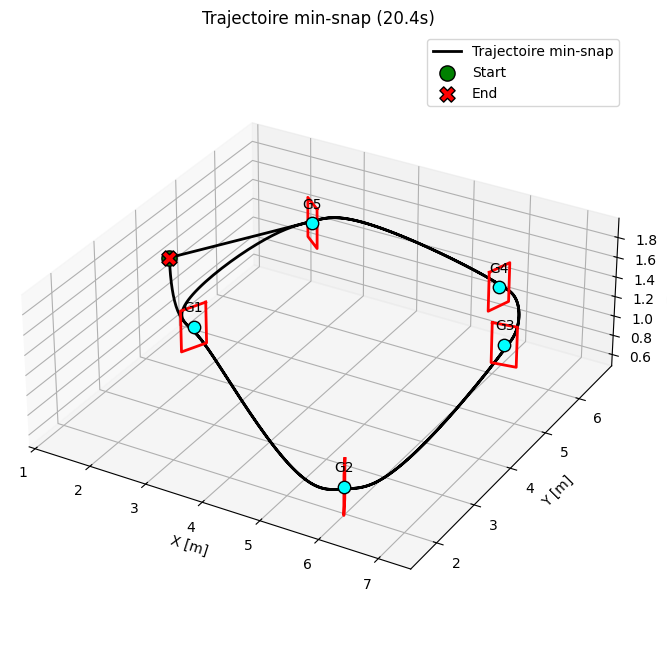
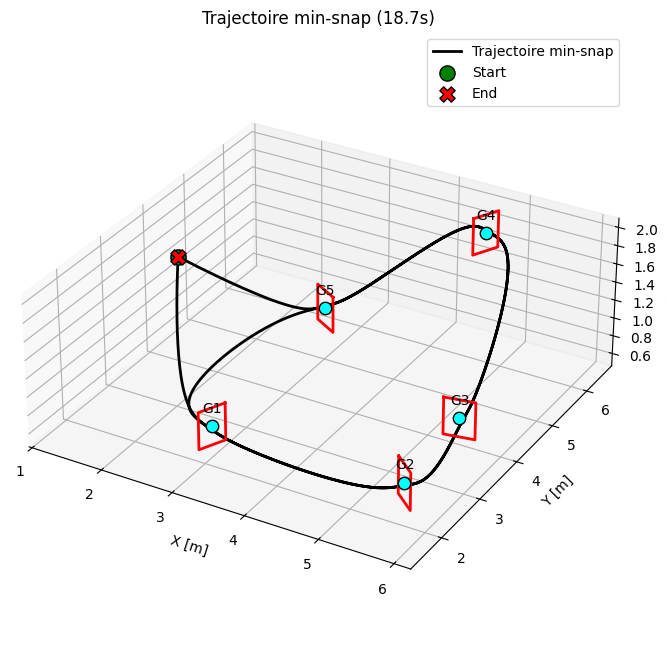
added lateral offset robust

diff --git a/controllers/main/assignment/my_assignment.py b/controllers/main/assignment/my_assignment.py
@@ -30,14 +30,12 @@ GATE_OBJ_POINTS = np.array([[-_hw, -_hh, 0.0],   # TL
                             dtype=np.float32)
 
 # =============================================================================
-# PARAMÈTRES FILTRE HSV
+# PARAMÈTRES FILTRE HSV  (une seule plage, à ajuster selon l'éclairage)
 # =============================================================================
-HSV_LOWER_MAG1 = np.array([140,  80,  80])
-HSV_UPPER_MAG1 = np.array([180, 255, 255])
-HSV_LOWER_MAG2 = np.array([  0,  80,  80])
-HSV_UPPER_MAG2 = np.array([ 15, 255, 255])
+HSV_LOWER_MAG1 = np.array([138,  20,  110])
+HSV_UPPER_MAG1 = np.array([158, 210, 255])
 
-MIN_CONTOUR_AREA = 200
+MIN_CONTOUR_AREA = 400
 
 NUM_GATES = 5
 OVERFLY_ALT = 2.0          # altitude pour passer au-dessus du gate
@@ -82,9 +80,7 @@ def detect_gates(image):
 
     hsv = cv2.cvtColor(img, cv2.COLOR_BGR2HSV)
 
-    mask1 = cv2.inRange(hsv, HSV_LOWER_MAG1, HSV_UPPER_MAG1)
-    mask2 = cv2.inRange(hsv, HSV_LOWER_MAG2, HSV_UPPER_MAG2)
-    mask  = cv2.bitwise_or(mask1, mask2)
+    mask = cv2.inRange(hsv, HSV_LOWER_MAG1, HSV_UPPER_MAG1)
 
     kernel_open  = np.ones((5,  5),  np.uint8)
     kernel_close = np.ones((15, 15), np.uint8)
@@ -115,14 +111,14 @@ def detect_gates(image):
         angle_h = (cx - CAM_WIDTH / 2.0) * angle_per_pixel
         angle_v = (CAM_HEIGHT / 2.0 - cy) * (CAM_FOV_V / CAM_HEIGHT)
 
-        MIN_BBOX_SIZE = 15
+        MIN_BBOX_SIZE = 10
         if w < MIN_BBOX_SIZE or h < MIN_BBOX_SIZE:
             continue
 
         # Rejeter les contours très allongés (probablement du bruit ou des barres isolées
         # d'un gate, pas le gate entier). Un gate vu même de biais garde un ratio raisonnable.
         aspect_ratio = w / max(h, 1)
-        if aspect_ratio > 4.0 or aspect_ratio < 0.25:
+        if aspect_ratio > 3.0 or aspect_ratio < 0.33:
             continue
 
         # Filtre noir à droite : s'assure que le gate détecté est isolé à sa droite
@@ -230,6 +226,13 @@ class MyAssignment:
         # on accepte le plus gros contour comme fallback
         self.scan_frames = 0
 
+        # Stop-and-detect en scan_ccw :
+        # Le drone alterne entre rotation (SCAN_ROT_FRAMES frames) et pause
+        # (SCAN_PAUSE_FRAMES frames) pour laisser l'image se stabiliser avant
+        # de tenter la détection. Détection uniquement pendant la pause.
+        self.scan_phase        = 'rotate'   # 'rotate' ou 'pause'
+        self.scan_phase_frames = 0          # frames écoulées dans la phase courante
+
         # Position estimée du gate courant (lissée)
         self.gate_rough_pos  = None
         self.lost_count      = 0
@@ -261,6 +264,8 @@ class MyAssignment:
         self.best_angle_h = None
         self.refine_shrink_count = 0
         self.scan_frames = 0
+        self.scan_phase = 'rotate'
+        self.scan_phase_frames = 0
 
     def _reorder_gates_ccw(self, gate_positions):
         """
@@ -373,7 +378,7 @@ class MyAssignment:
         return pos, vel
 
     def _compute_trajectory(self, start_pos, waypoints, end_pos,
-                            avg_speed= 2, gate_speed_factor=0.5):
+                            avg_speed=3, gate_speed_factor=0.7):
         """
         Calcule une trajectoire min-snap par morceaux entre start_pos, tous les
         waypoints (passages de gates), et end_pos.
@@ -385,15 +390,14 @@ class MyAssignment:
             (gate_speed_factor < 1) pour forcer le drone à passer précisément par
             le centroïde. Moins de vitesse = moins d'inertie = moins d'écart
             lors du passage.
-          - Durée de chaque segment ∝ longueur / avg_speed
+          - Durée de chaque segment : d / avg_speed (cruise plein).
+            Plafond 5s pour éviter l'instabilité numérique du polynôme d'ordre 7
+            (T^7 explose si T est grand, rendant les coefficients aberrants).
 
         Paramètres :
-          start_pos          : np.array(3), position de départ
-          waypoints          : liste de dicts {'pos': np.array(3), 'normal': np.array(2)}
-          end_pos            : np.array(3), position finale
-          avg_speed          : vitesse moyenne ciblée entre waypoints (m/s)
+          avg_speed          : vitesse CRUISE entre gates (m/s) → monter pour + rapide
           gate_speed_factor  : facteur ]0,1] appliqué à la vitesse AU centroïde
-                               des gates. 0.6 = traversée 40% plus lente pour
+                               des gates. 0.7 = traversée 30% plus lente pour
                                garantir le passage au centre.
 
         Retourne :
@@ -409,18 +413,15 @@ class MyAssignment:
 
         gate_speed = avg_speed * gate_speed_factor
 
-        # --- Durées des segments : ∝ distance / vitesse effective du segment ---
-        # On utilise la vitesse "à l'entrée" + "à la sortie" moyennée pour ne pas
-        # faire de saccades. Segments qui touchent un gate → vitesse réduite.
+        # --- Durées des segments : d / avg_speed (cruise plein) ---
+        # Ce calcul utilise avg_speed DIRECTEMENT → monter avg_speed = aller plus vite.
+        # Plancher 0.3s : évite les segments trop courts numériquement instables.
+        # Plafond  5.0s : évite T^7 énorme qui rend les coefficients aberrants
+        #                 (trajectoire qui "explose" entre deux waypoints).
         durations = []
         for i in range(N):
             d = np.linalg.norm(all_points[i+1]['pos'] - all_points[i]['pos'])
-            # Vitesse effective du segment : moyenne des vitesses aux deux bouts
-            # (aux extrémités start/end la vitesse est 0, ailleurs c'est avg_speed)
-            v_in  = 0.0        if i == 0       else gate_speed
-            v_out = 0.0        if i == N-1     else gate_speed
-            v_seg = max((v_in + v_out) / 2.0, 0.3)   # éviter div/0
-            durations.append(max(d / v_seg, 0.6))    # minimum 0.6s pour stabilité
+            durations.append(float(np.clip(d / avg_speed, 0.3, 5.0)))
 
         # --- Vitesse cible à chaque point ---
         # start et end : vitesse nulle
@@ -489,18 +490,28 @@ class MyAssignment:
         pos, _ = self._eval_poly(last_poly, last_dur)
         return pos, np.zeros(3)
 
-    def _build_lap2_waypoints_shrunk(self, ordered_gates, start_pos, shrink_factor=0.3):
+    # =========================================================================
+    # MODIFICATION : waypoint décalé à droite du gate pour compenser l'inertie
+    # =========================================================================
+    def _build_lap2_waypoints_shrunk(self, ordered_gates, start_pos,
+                                     lateral_offset=0.07):
         """
         Construit la liste des waypoints pour 2 tours à partir des gates ordonnés
         (liste de np.array([x, y, z])).
 
         Pour chaque gate on calcule sa normale = tangente locale du chemin
-        (direction moyenne gate_précédent → gate → gate_suivant). Cette normale
-        sert à imposer la direction de traversée dans la trajectoire.
+        (direction moyenne gate_précédent → gate → gate_suivant).
 
-        Pour atterrir pile au centre du gate, on utilise le centroïde exact
-        (shrink_factor = 0 signifie pas de décalage). Le paramètre est gardé
-        pour pouvoir éloigner du bord si besoin.
+        Le waypoint visé est décalé latéralement par rapport au centroïde.
+        Quand le drone va vite en CCW, l'inertie le pousse vers l'extérieur
+        du virage (gauche dans le sens de traversée). En décalant le waypoint
+        vers la DROITE, on compense ce drift pour que le drone passe dans le gate.
+
+          "Droite" dans le sens de traversée :
+          si normale = (nx, ny)  →  droite = (ny, -nx)   [rotation de -90°]
+
+        lateral_offset > 0 → décalage vers la droite (compense dérive CCW)
+        lateral_offset = 0 → centroïde exact (pas de compensation)
 
         Retourne : liste de dicts {'pos': np.array(3), 'normal': np.array(2)}
                    répétée 2 fois pour 2 laps.
@@ -514,8 +525,17 @@ class MyAssignment:
             next_pos = ordered_gates[(i + 1) % n]
             normal   = self._estimate_gate_normal(g, prev_pos, next_pos)
 
+            # Vecteur perpendiculaire à droite de la normale (rotation de -90°) :
+            #   normale (nx, ny)  →  droite (ny, -nx)
+            right_2d = np.array([normal[1], -normal[0]])
+
+            # Position visée = centroïde + offset latéral vers la droite
+            g_target = np.array(g, dtype=np.float64).copy()
+            g_target[0] += lateral_offset * right_2d[0]
+            g_target[1] += lateral_offset * right_2d[1]
+
             base_waypoints.append({
-                'pos':    np.array(g, dtype=np.float64).copy(),
+                'pos':    g_target,
                 'normal': normal,
             })
         # Répéter pour 2 laps
@@ -648,42 +668,69 @@ class MyAssignment:
             return [pos[0], pos[1], CRUISE_ALT, self.yaw_90_target]
 
         # =====================================================================
-        # SCAN_CCW : tourner CCW jusqu'à 4 coins + noir droite
-        #   Fallback : si on tourne depuis très longtemps sans trouver 4 coins,
-        #   accepter le plus gros contour (partiellement visible) pour ne pas rester bloqué
+        # SCAN_CCW : rotation CCW par petites impulsions, avec pauses de détection
+        #
+        # Principe stop-and-detect :
+        #   - Phase 'rotate' (SCAN_ROT_FRAMES frames)   : tourner CCW, pas de détection
+        #   - Phase 'pause'  (SCAN_PAUSE_FRAMES frames) : immobile, détecter le violet
+        #
+        # La détection n'a lieu QUE pendant la pause, quand l'image est stable.
+        # Fallback : après SCAN_TIMEOUT frames totales sans succès, accepter le
+        # plus gros contour visible même sans 4 coins.
         # =====================================================================
         if self.state == 'scan_ccw':
-            detections, self.debug_mask, _ = detect_gates(camera_data)
-            self.scan_frames += 1
+            SCAN_ROT_FRAMES   = 12   # frames de rotation (~0.24s à 50Hz) → ~20° par impulsion
+            SCAN_PAUSE_FRAMES = 12   # frames d'arrêt pour laisser l'image se stabiliser
+            SCAN_TIMEOUT      = 400  # frames totales avant fallback (~8s à 50Hz)
 
-            # Cas idéal : 4 coins visibles
-            for det in detections:
-                if det['has_4_corners']:
+            self.scan_frames       += 1
+            self.scan_phase_frames += 1
+
+            # --- Transition entre phases ---
+            if self.scan_phase == 'rotate' and self.scan_phase_frames >= SCAN_ROT_FRAMES:
+                self.scan_phase        = 'pause'
+                self.scan_phase_frames = 0
+            elif self.scan_phase == 'pause' and self.scan_phase_frames >= SCAN_PAUSE_FRAMES:
+                self.scan_phase        = 'rotate'
+                self.scan_phase_frames = 0
+
+            # --- Détection uniquement pendant la pause (image stable) ---
+            if self.scan_phase == 'pause':
+                detections, self.debug_mask, _ = detect_gates(camera_data)
+
+                for det in detections:
+                    if det['has_4_corners']:
+                        self.best_area    = det['area']
+                        self.best_angle_h = det['angle_h']
+                        self.refine_shrink_count = 0
+                        self.state = 'refine'
+                        self.scan_frames = 0
+                        self.scan_phase = 'rotate'
+                        self.scan_phase_frames = 0
+                        print(f"[STATE] Gate détecté (pause) aire={det['area']:.0f} → refine")
+                        break
+
+                # Fallback timeout : accepter le plus gros contour même sans 4 coins
+                if self.state == 'scan_ccw' and self.scan_frames > SCAN_TIMEOUT and detections:
+                    det = detections[0]
                     self.best_area    = det['area']
                     self.best_angle_h = det['angle_h']
                     self.refine_shrink_count = 0
                     self.state = 'refine'
                     self.scan_frames = 0
-                    print(f"[STATE] 4 coins + noir droite (aire={det['area']:.0f}) → refine")
-                    break
+                    self.scan_phase = 'rotate'
+                    self.scan_phase_frames = 0
+                    print(f"[STATE] Timeout scan → refine fallback "
+                          f"aire={det['area']:.0f} ({det['corner_count']} coins)")
 
-            # Fallback : si on a cherché trop longtemps sans voir 4 coins, accepter
-            # le plus gros contour même s'il n'a pas exactement 4 coins (gate coupé,
-            # vu de biais, etc.)
-            SCAN_TIMEOUT = 400  # environ ~20 secondes à 50Hz
-            if self.state == 'scan_ccw' and self.scan_frames > SCAN_TIMEOUT and detections:
-                det = detections[0]  # le plus gros (détections triées par aire)
-                self.best_area    = det['area']
-                self.best_angle_h = det['angle_h']
-                self.refine_shrink_count = 0
-                self.state = 'refine'
-                self.scan_frames = 0
-                print(f"[STATE] Timeout scan ({self.scan_frames}f) → refine avec "
-                      f"contour aire={det['area']:.0f} ({det['corner_count']} coins)")
-
+            # --- Commande de mouvement ---
             if self.state == 'scan_ccw':
-                new_yaw = self._normalize_angle(yaw + 10 * dt)
-                return [pos[0], pos[1], CRUISE_ALT, new_yaw]
+                if self.scan_phase == 'rotate':
+                    new_yaw = self._normalize_angle(yaw + 10 * dt)
+                    return [pos[0], pos[1], CRUISE_ALT, new_yaw]
+                else:
+                    # Pause : rester immobile au yaw courant
+                    return [pos[0], pos[1], CRUISE_ALT, yaw]
 
         # =====================================================================
         # REFINE : tourner jusqu'à noir gauche aussi → estimer position du gate
@@ -797,7 +844,7 @@ class MyAssignment:
                     self.gate_rough_pos = np.array([gate_x, gate_y, gate_z])
 
                 # -- Assez proche pour une bonne idée du centroïde → enregistrer le gate et passer au-dessus --
-                CLOSE_THRESHOLD_H = 80
+                CLOSE_THRESHOLD_H = 100
                 if det['h'] > CLOSE_THRESHOLD_H or (det['dist_est'] and det['dist_est'] < 0.6): #si det[...] is not none and det['dist_est'] < 0.6
                     self.gate_positions.append(self.gate_rough_pos.copy()) # stocker la position du gate trouvé
                     self.current_gate_idx = len(self.gate_positions) # indice du gate courant (pour lap 2)
@@ -828,7 +875,7 @@ class MyAssignment:
             else:
                 # ---- Gate pas visible ----
                 self.lost_count += 1
-                MAX_LOST_FRAMES = 300
+                MAX_LOST_FRAMES = 500
 
                 if self.lost_count > MAX_LOST_FRAMES:
                     print(f"[STATE] Gate perdu ({self.lost_count} frames) → scan_ccw")
@@ -896,7 +943,7 @@ class MyAssignment:
 
             if detections:
                 # On voit encore du magenta → tourner CW pour s'en éloigner
-                new_yaw = self._normalize_angle(yaw - 15 * dt)
+                new_yaw = self._normalize_angle(yaw - 10 * dt)
                 return [pos[0], pos[1], CRUISE_ALT, new_yaw]
             else:
                 # Plus de magenta → le gate courant est derrière nous
@@ -931,7 +978,11 @@ class MyAssignment:
             if self.trajectory is None:
                 start_pos = np.array([pos[0], pos[1], CRUISE_ALT])
                 waypoints = self._build_lap2_waypoints_shrunk(
-                    self.gate_positions, start_pos
+                    self.gate_positions, start_pos,
+                    lateral_offset=0.07   # offset (m) vers la droite du gate.
+                                         # 0.0 = centroïde exact.
+                                         # Augmenter (ex: 0.05) si le drone
+                                         # coupe les virages par la gauche.
                 )
                 end_pos = start_pos.copy()   # retour au point de départ après 2 laps
                 self.trajectory = self._compute_trajectory(
